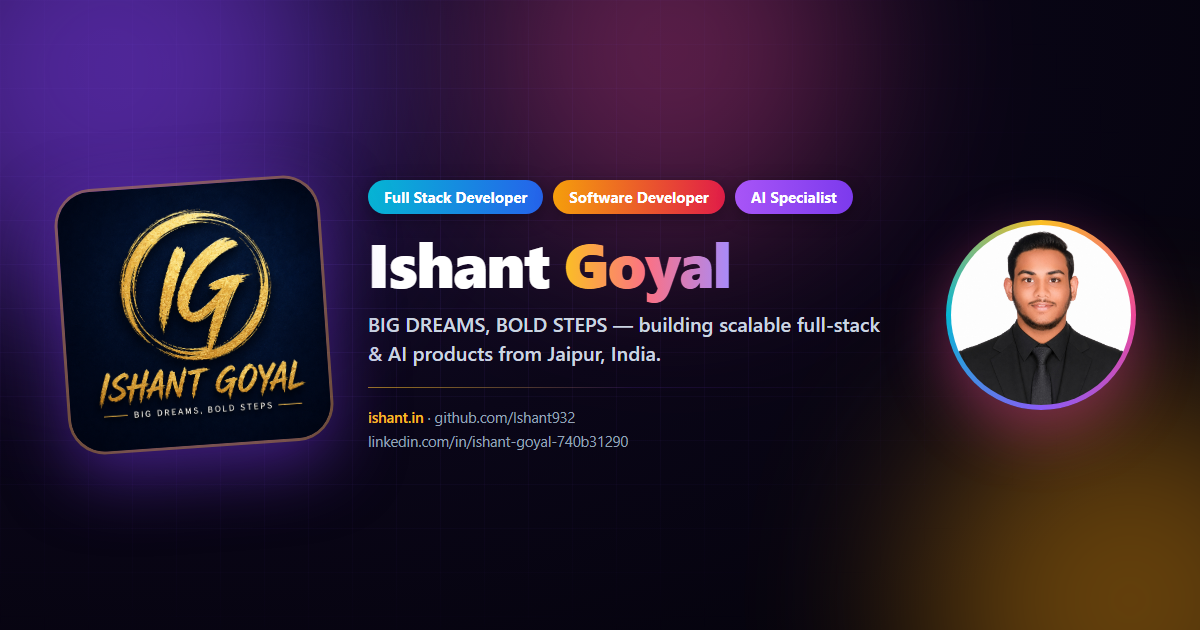
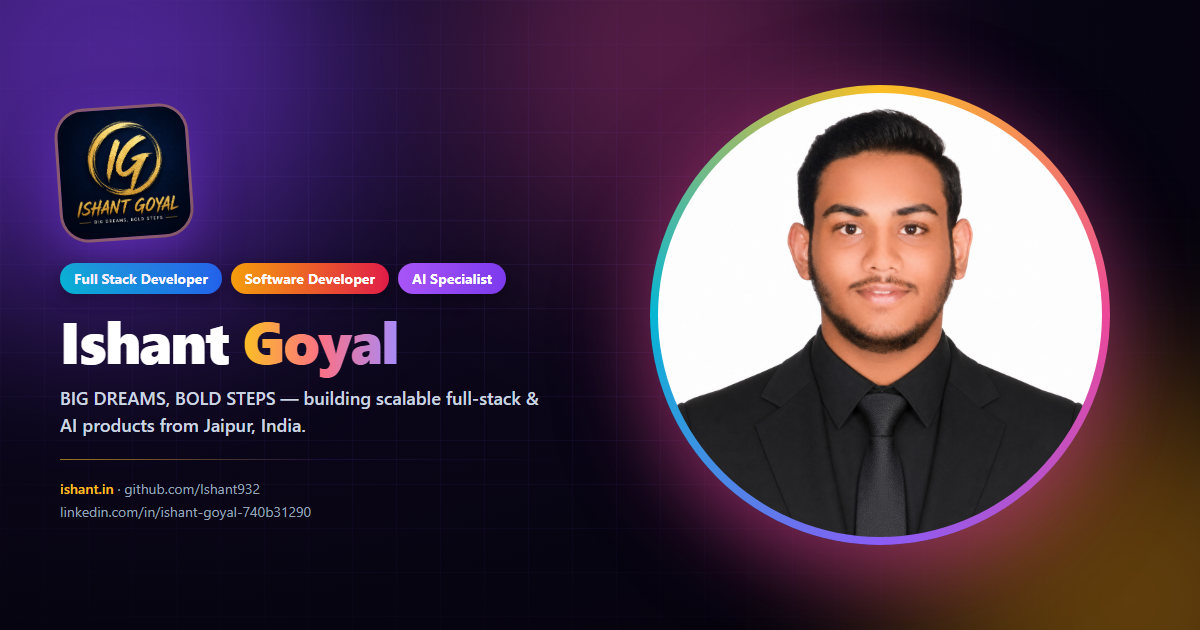
Make portrait photo dominant in OG card and strengthen Person/ProfilePage schema
- Redesign og.png so the portrait photo is the large right-side centerpiece
  (Google crops the center of og:image as the search-result thumbnail, so
  this puts Ishant's photo where the logo thumbnail was)
- Set Open Graph type to profile with first/last name so Google treats the
  page as a person profile
- Add ProfilePage JSON-LD tying the page to the Person entity and portrait
- Add givenName/familyName/alternateName + image caption to Person schema

🤖 Generated with Codebuff

diff --git a/gen-og.js b/gen-og.js
@@ -1,5 +1,7 @@
-// Generates public/og.png — a branded 1200x630 social/Google card with the
-// logo and portrait, replacing the old stale site screenshot.
+// Generates public/og.png — a branded 1200x630 social/Google card.
+// The PORTRAIT PHOTO is the dominant centerpiece (Google crops the center
+// of the og:image as the search-result thumbnail), with the logo and name
+// around it. Regenerate with: node gen-og.js
 const { chromium } = require("playwright");
 const fs = require("fs");
 const path = require("path");
@@ -15,54 +17,65 @@ const html = `<!DOCTYPE html>
   html, body { width: 1200px; height: 630px; overflow: hidden; }
   body {
     font-family: 'Segoe UI', 'Helvetica Neue', Arial, sans-serif;
-    background: radial-gradient(1200px 700px at 15% 10%, #1b1035 0%, #0a0618 55%, #05030d 100%);
+    background: radial-gradient(1200px 700px at 12% 8%, #1b1035 0%, #0a0618 55%, #05030d 100%);
     color: #fff;
     position: relative;
   }
-  /* aurora blobs */
-  .blob { position: absolute; border-radius: 50%; filter: blur(90px); opacity: 0.55; }
-  .b1 { width: 460px; height: 460px; left: -120px; top: -160px; background: #7c3aed; }
-  .b2 { width: 420px; height: 420px; right: -140px; bottom: -180px; background: #f59e0b; opacity: 0.4; }
-  .b3 { width: 380px; height: 380px; right: 340px; top: -140px; background: #ec4899; opacity: 0.35; }
+  .blob { position: absolute; border-radius: 50%; filter: blur(90px); opacity: 0.5; }
+  .b1 { width: 480px; height: 480px; left: -140px; top: -170px; background: #7c3aed; }
+  .b2 { width: 440px; height: 440px; right: -150px; bottom: -190px; background: #f59e0b; opacity: 0.38; }
+  .b3 { width: 400px; height: 400px; right: 330px; top: -150px; background: #ec4899; opacity: 0.32; }
   .grid {
     position: absolute; inset: 0;
     background-image:
       linear-gradient(rgba(139,92,246,0.09) 1px, transparent 1px),
       linear-gradient(90deg, rgba(139,92,246,0.09) 1px, transparent 1px);
     background-size: 44px 44px;
-    mask-image: radial-gradient(ellipse 90% 90% at 30% 40%, black, transparent 75%);
+    mask-image: radial-gradient(ellipse 95% 95% at 40% 45%, black, transparent 78%);
   }
-  .card { position: relative; z-index: 2; height: 100%; display: flex; align-items: center; gap: 44px; padding: 0 64px; }
+  .card { position: relative; z-index: 2; height: 100%; }
+
+  /* Left column: logo + name + pills + links */
+  .left {
+    position: absolute; left: 60px; top: 0; bottom: 0;
+    width: 520px; display: flex; flex-direction: column; justify-content: center;
+  }
   .logo {
-    width: 260px; height: 260px; border-radius: 34px; flex-shrink: 0;
-    box-shadow: 0 0 0 3px rgba(251,191,36,0.35), 0 24px 70px rgba(124,58,237,0.5);
-    transform: rotate(-4deg);
+    width: 128px; height: 128px; border-radius: 26px;
+    box-shadow: 0 0 0 3px rgba(251,191,36,0.35), 0 18px 50px rgba(124,58,237,0.5);
+    transform: rotate(-4deg); margin-bottom: 26px;
   }
-  .right { flex: 1; min-width: 0; }
-  .pills { display: flex; gap: 10px; margin-bottom: 16px; flex-wrap: wrap; }
+  .pills { display: flex; gap: 9px; margin-bottom: 16px; flex-wrap: wrap; }
   .pill {
-    padding: 7px 16px; border-radius: 999px; font-size: 15px; font-weight: 700; color: #fff;
-    box-shadow: 0 4px 18px rgba(0,0,0,0.35); white-space: nowrap;
+    padding: 6px 14px; border-radius: 999px; font-size: 14px; font-weight: 700; color: #fff;
+    box-shadow: 0 4px 16px rgba(0,0,0,0.35); white-space: nowrap;
   }
   .p1 { background: linear-gradient(90deg,#06b6d4,#2563eb); }
   .p2 { background: linear-gradient(90deg,#f59e0b,#e11d48); }
   .p3 { background: linear-gradient(90deg,#a855f7,#7c3aed); }
   h1 {
-    font-size: 62px; font-weight: 800; letter-spacing: -1.5px; line-height: 1.05; white-space: nowrap;
+    font-size: 58px; font-weight: 800; letter-spacing: -1.5px; line-height: 1.05; white-space: nowrap;
   }
   h1 span { background: linear-gradient(90deg,#fbbf24,#fb7185,#a78bfa); -webkit-background-clip: text; background-clip: text; color: transparent; }
-  .tag { margin-top: 14px; font-size: 20px; color: #cbd5e1; font-weight: 500; line-height: 1.45; }
+  .tag { margin-top: 14px; font-size: 18px; color: #cbd5e1; font-weight: 500; line-height: 1.5; max-width: 480px; }
   .divider { margin: 20px 0; width: 100%; height: 1px; background: linear-gradient(90deg, rgba(251,191,36,0.6), rgba(124,58,237,0.15), transparent); }
-  .sites { display: flex; flex-direction: column; gap: 5px; font-size: 14.5px; color: #94a3b8; line-height: 1.3; }
+  .sites { display: flex; flex-direction: column; gap: 5px; font-size: 14px; color: #94a3b8; line-height: 1.3; }
   .sites b { color: #fbbf24; font-weight: 600; }
+
+  /* Right: LARGE portrait — centerpiece */
   .photo-wrap {
-    width: 190px; height: 190px; border-radius: 50%; padding: 5px; flex-shrink: 0;
+    position: absolute; right: 90px; top: 50%; transform: translateY(-50%);
+    width: 460px; height: 460px; border-radius: 50%; padding: 8px;
     background: conic-gradient(from 0deg, #fbbf24, #ec4899, #8b5cf6, #06b6d4, #fbbf24);
-    box-shadow: 0 20px 60px rgba(236,72,153,0.45);
-    margin-left: 6px;
+    box-shadow: 0 30px 90px rgba(236,72,153,0.5);
   }
   .photo { width: 100%; height: 100%; border-radius: 50%; object-fit: cover; object-position: top; }
-  .photo-col { display: flex; align-items: center; }
+  .glow {
+    position: absolute; right: 40px; top: 50%; transform: translateY(-50%);
+    width: 560px; height: 560px; border-radius: 50%;
+    background: radial-gradient(circle, rgba(251,191,36,0.28), rgba(236,72,153,0.18) 40%, transparent 70%);
+    filter: blur(30px);
+  }
 </style>
 </head>
 <body>
@@ -71,8 +84,9 @@ const html = `<!DOCTYPE html>
   <div class="blob b3"></div>
   <div class="grid"></div>
   <div class="card">
-    <img class="logo" src="file:///REPLACE_LOGO" alt="IG" />
-    <div class="right">
+    <div class="glow"></div>
+    <div class="left">
+      <img class="logo" src="file:///REPLACE_LOGO" alt="IG" />
       <div class="pills">
         <span class="pill p1">Full Stack Developer</span>
         <span class="pill p2">Software Developer</span>
@@ -86,10 +100,8 @@ const html = `<!DOCTYPE html>
         <span>linkedin.com/in/ishant-goyal-740b31290</span>
       </div>
     </div>
-    <div class="photo-col">
-      <div class="photo-wrap">
-        <img class="photo" src="file:///REPLACE_PHOTO" alt="Ishant Goyal" />
-      </div>
+    <div class="photo-wrap">
+      <img class="photo" src="file:///REPLACE_PHOTO" alt="Ishant Goyal" />
     </div>
   </div>
 </body>

diff --git a/src/app/layout.tsx b/src/app/layout.tsx
@@ -68,7 +68,10 @@ export const metadata: Metadata = {
     apple: "/favicon.png",
   },
   openGraph: {
-    type: "website",
+    type: "profile",
+    firstName: "Ishant",
+    lastName: "Goyal",
+    username: "ishantgoyal932",
     url: siteUrl,
     siteName: "Ishant Goyal — Portfolio",
     title: "Ishant Goyal | Full Stack Developer · Software Developer · AI Specialist",
@@ -79,7 +82,7 @@ export const metadata: Metadata = {
         url: "/og.png",
         width: 1200,
         height: 630,
-        alt: "Ishant Goyal — Full Stack Developer, Software Developer, AI Specialist",
+        alt: "Ishant Goyal — Full Stack Developer, Software Developer, AI Specialist, portrait photo",
       },
     ],
     locale: "en_IN",
@@ -108,6 +111,26 @@ export const metadata: Metadata = {
   },
 };
 
+const profilePageSchema = {
+  "@context": "https://schema.org",
+  "@type": "ProfilePage",
+  name: "Ishant Goyal | Full Stack Developer · Software Developer · AI Specialist",
+  url: siteUrl,
+  inLanguage: "en-IN",
+  primaryImageOfPage: {
+    "@type": "ImageObject",
+    url: `${siteUrl}/images/ishant-photo.png`,
+    width: 1254,
+    height: 1254,
+  },
+  mainEntity: {
+    "@type": "Person",
+    name: "Ishant Goyal",
+    url: siteUrl,
+    image: `${siteUrl}/images/ishant-photo.png`,
+  },
+};
+
 const websiteSchema = {
   "@context": "https://schema.org",
   "@type": "WebSite",
@@ -131,12 +154,16 @@ const personSchema = {
   "@context": "https://schema.org",
   "@type": "Person",
   name: "Ishant Goyal",
+  givenName: "Ishant",
+  familyName: "Goyal",
+  alternateName: "IG",
   url: siteUrl,
   image: {
     "@type": "ImageObject",
     url: `${siteUrl}/images/ishant-photo.png`,
     width: 1254,
     height: 1254,
+    caption: "Ishant Goyal — Full Stack Developer, Software Developer, AI Specialist",
   },
   jobTitle: "Full Stack Developer / Software Developer / AI Specialist",
   worksFor: {
@@ -180,6 +207,10 @@ export default function RootLayout({ children }: LayoutProps<"/">) {
     >
       <head>
         <script dangerouslySetInnerHTML={{ __html: themeInit }} />
+        <script
+          type="application/ld+json"
+          dangerouslySetInnerHTML={{ __html: JSON.stringify(profilePageSchema) }}
+        />
         <script
           type="application/ld+json"
           dangerouslySetInnerHTML={{ __html: JSON.stringify(websiteSchema) }}
